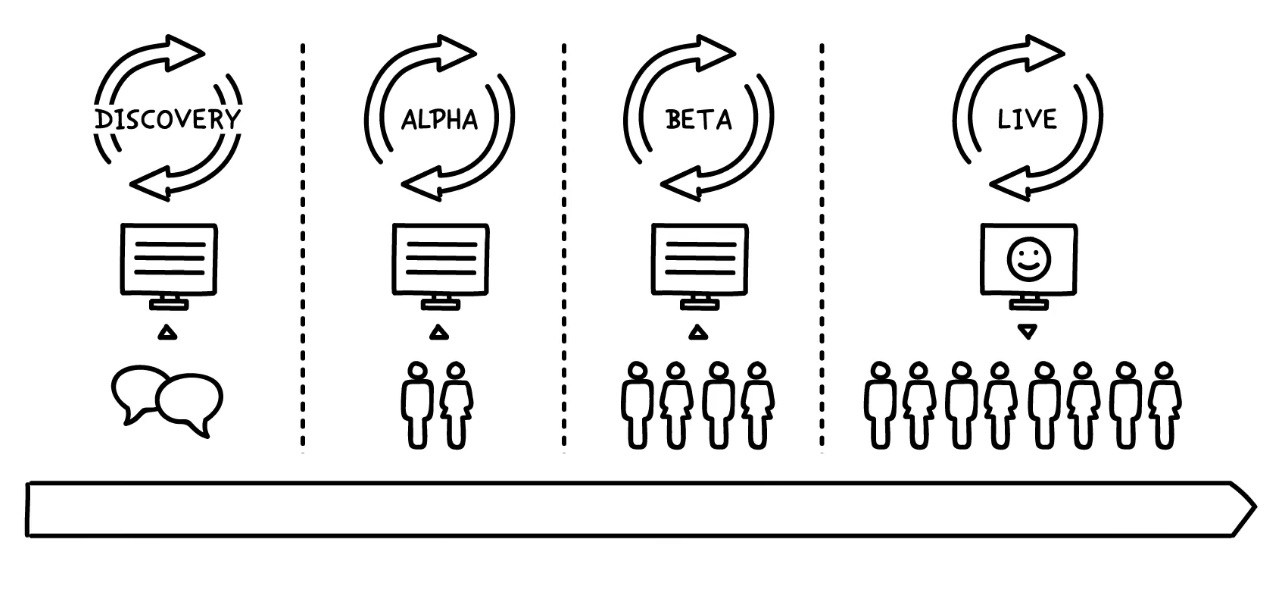
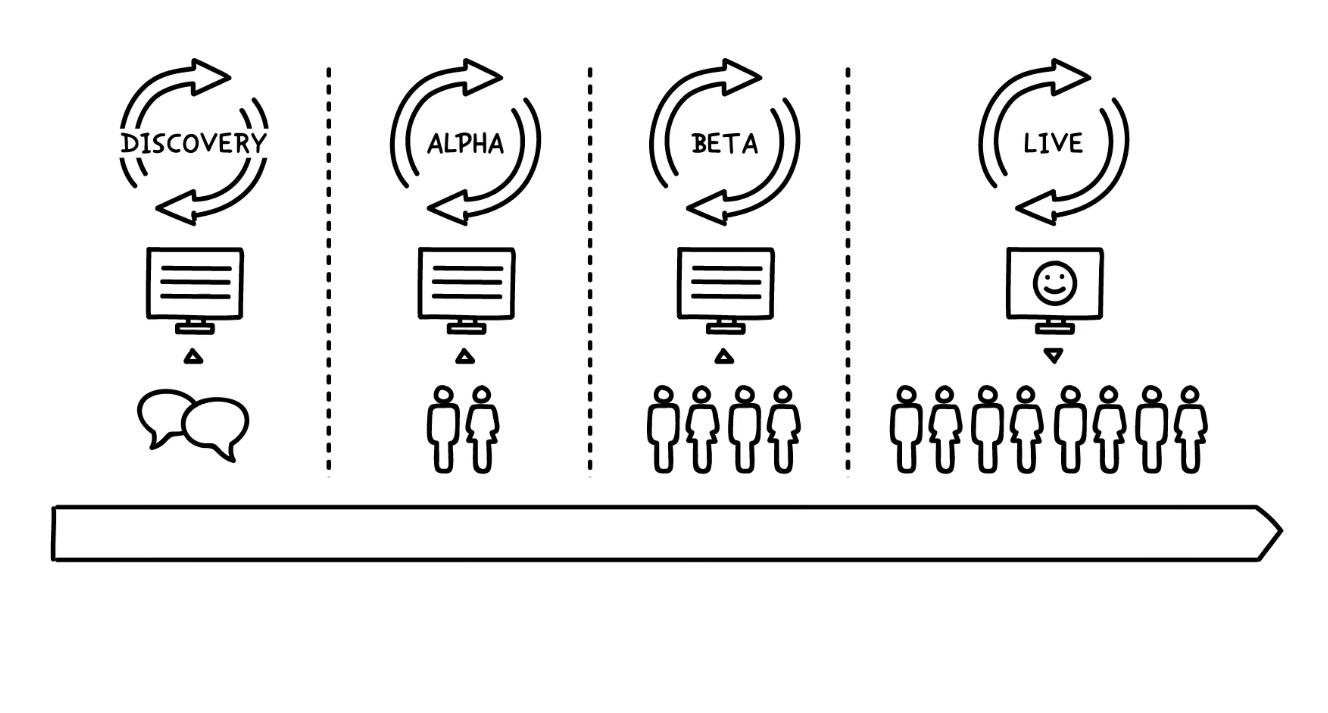
SDDP image fixes
- new dimensions for SDDP diagrams to cater for captions and position better
- image_content_block property fixes on the SDDP category page and Get Started page
- removed obsolete section heading markdown

diff --git a/content/service-design-delivery-process/what.md b/content/service-design-delivery-process/what.md
@@ -2,6 +2,8 @@
 layout: blocks/image_content_block
 image: /sddp/service-design-delivery-process.jpg
 link: /sddp/service-design-delivery-process.jpg
+section: What
+title: What is the service design and delivery process?
 imageAlt: "Diagram showing 4 stages and arrow going from left to right: Discovery stage and image of computer and speech bubbles; Alpha stage and 2 people; Beta stage and 4 people; Live stage, a computer with a smiley face and 8 people."
 ---
 

diff --git a/content/service-design-delivery-process/get-started/user-needs-image-old.md b/content/service-design-delivery-process/get-started/user-needs-image-old.md
@@ -2,6 +2,7 @@
 layout: blocks/image_content_block
 image: sddp/old-process.jpg
 link: sddp/old-process.jpg
+title: Start with user needs, not government needs
 reverse: false
 stackTop: true
 imageAlt: "Diagram showing policy formation, then capturing requirements and procurement, then development, and then launching with 'User needs?' at the end."
